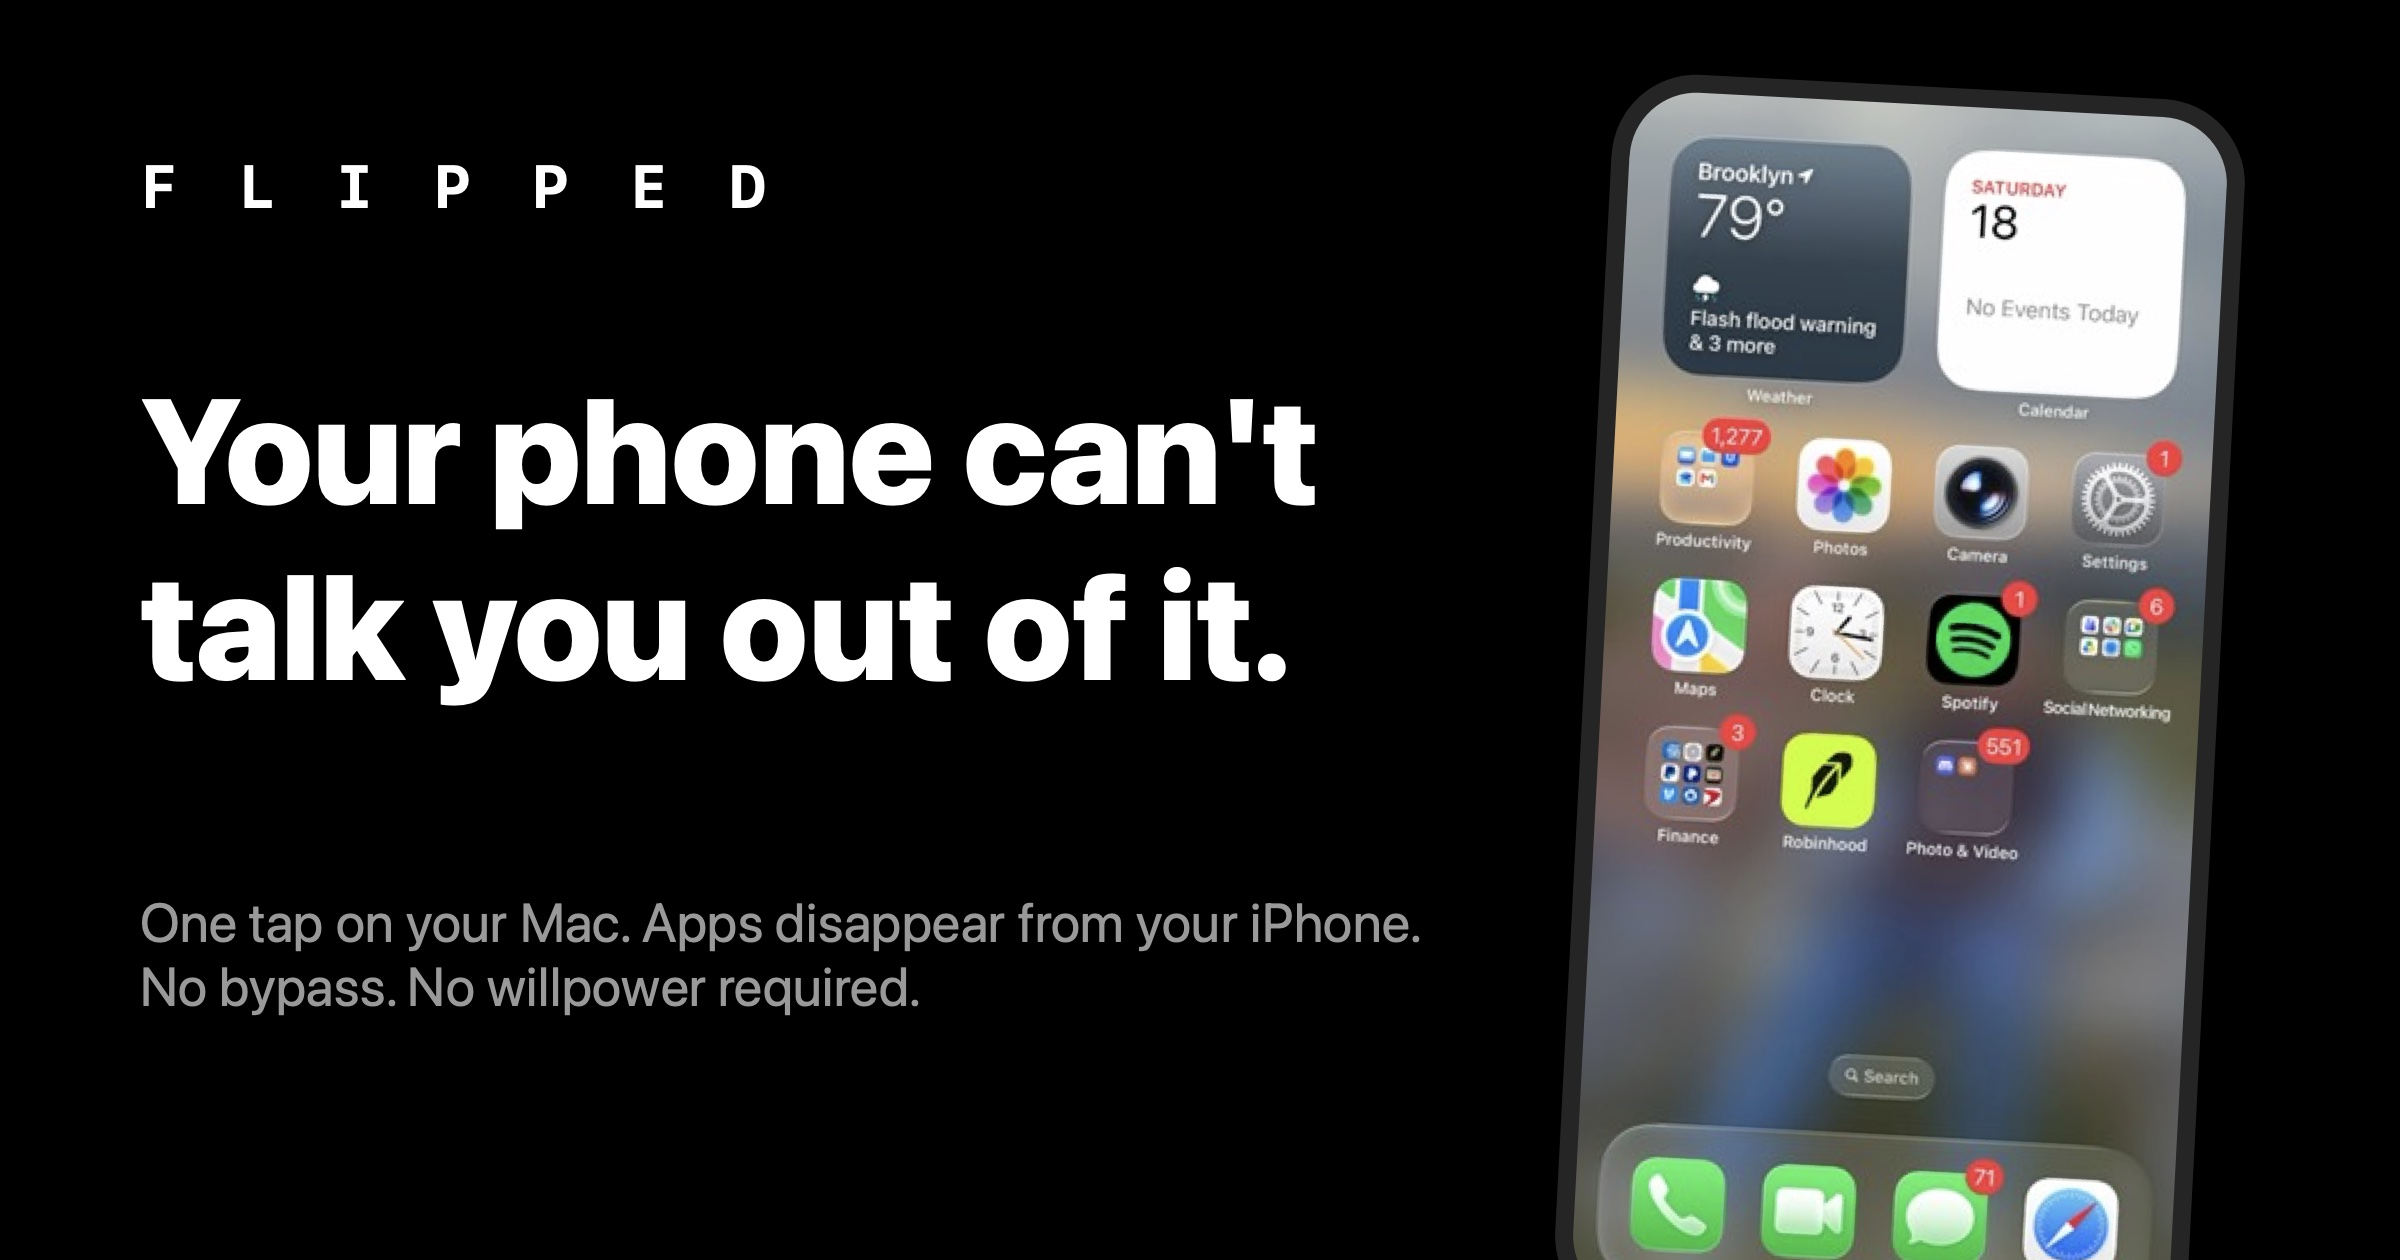
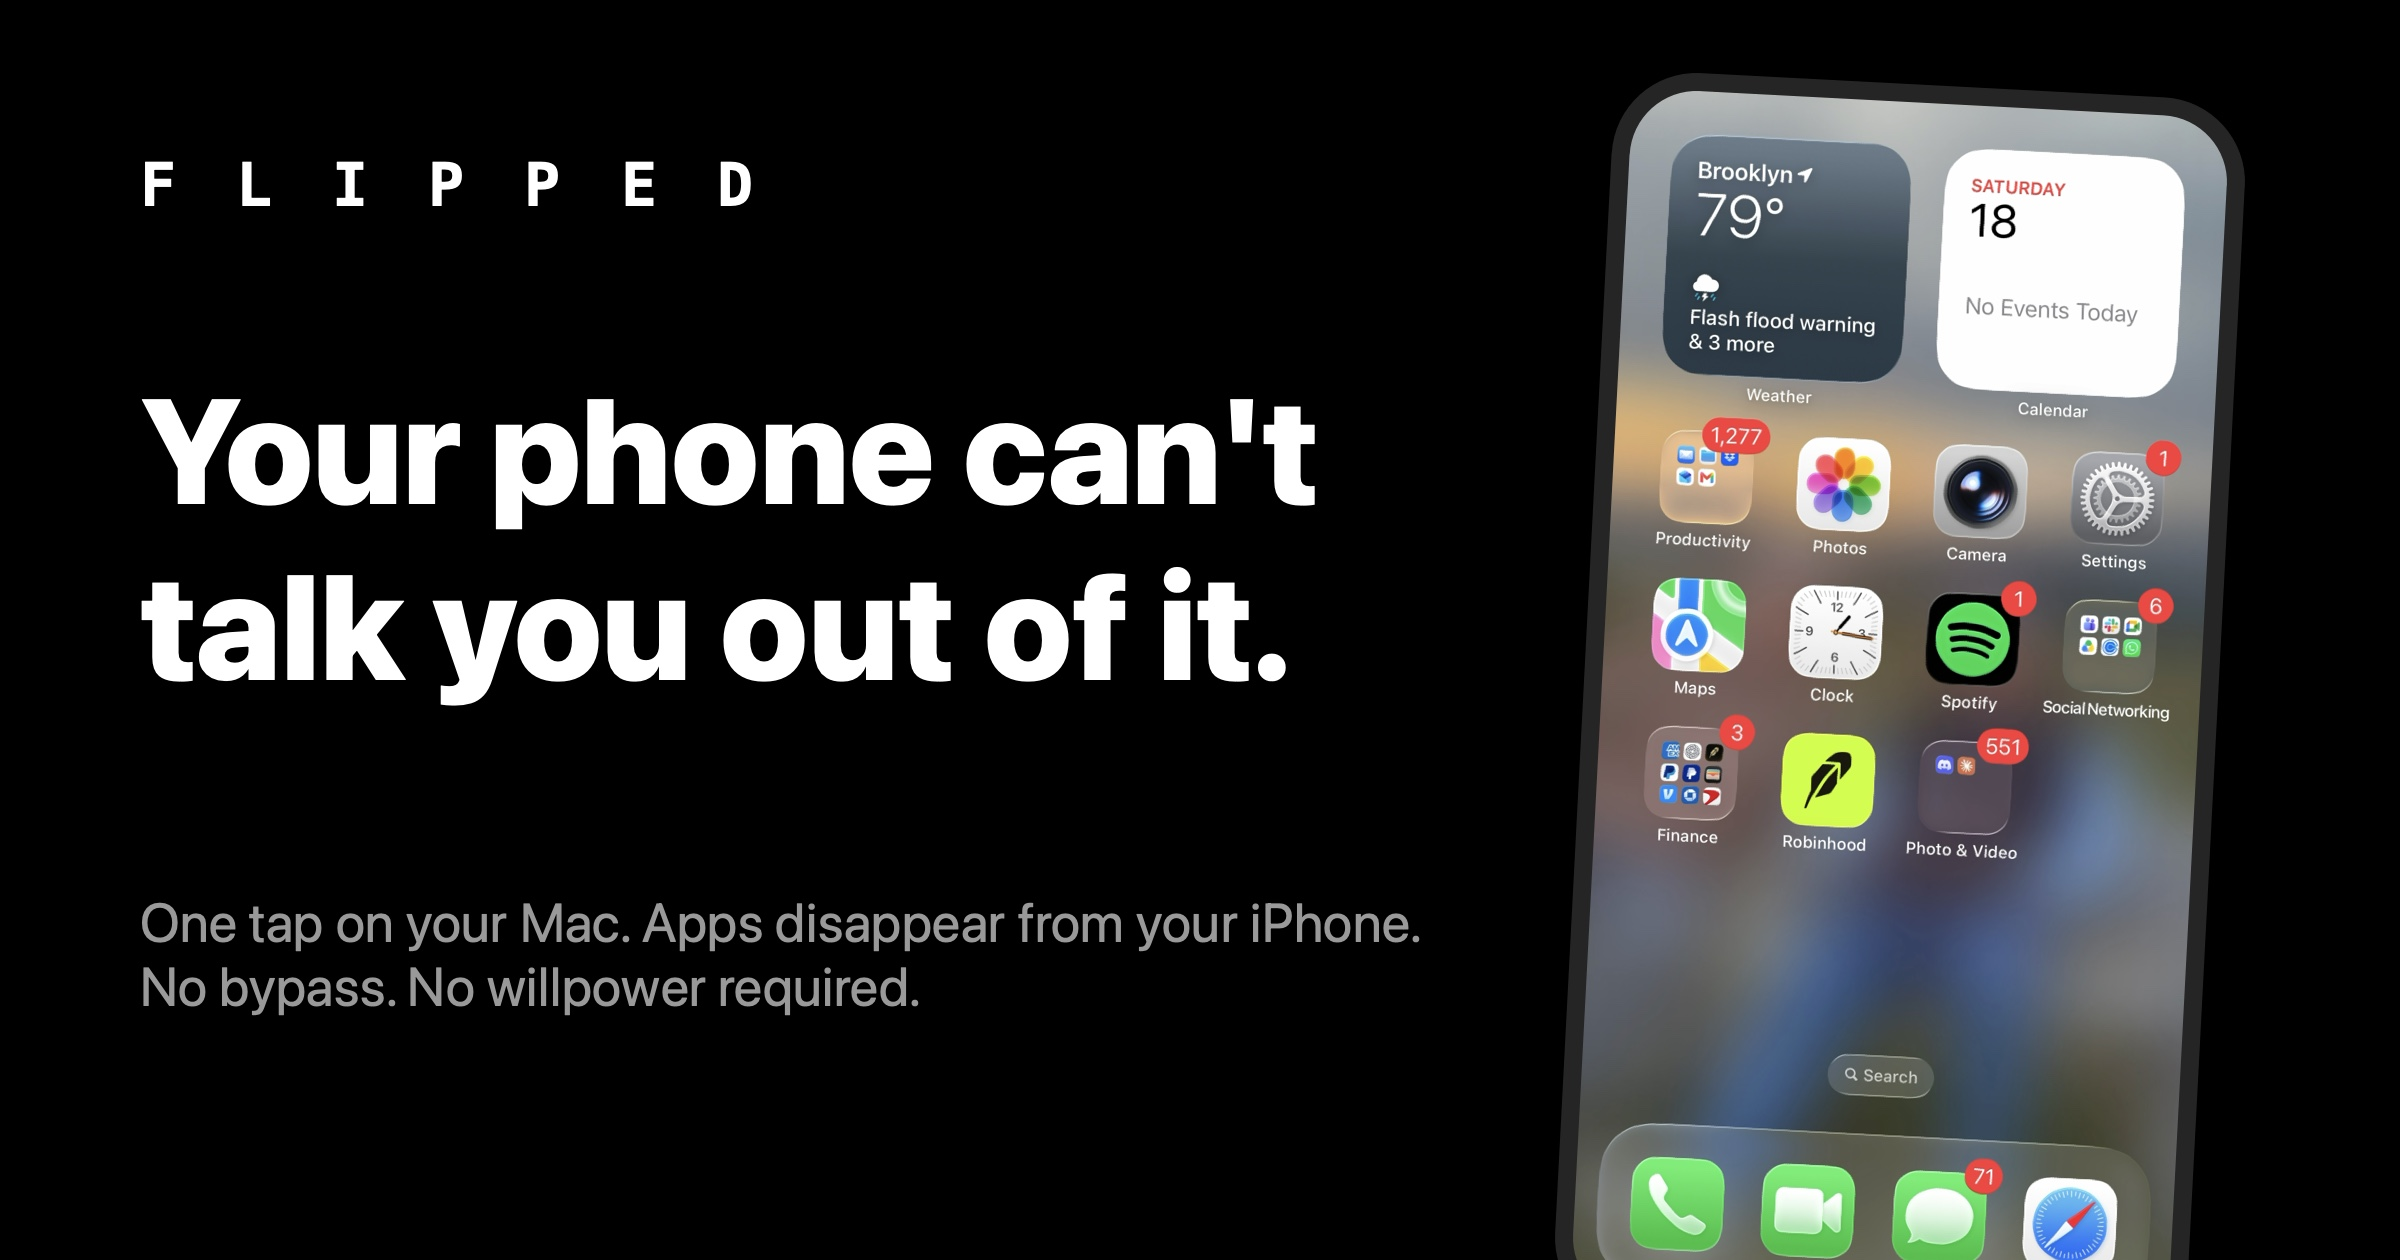
Share card v2: full-res phone still — the blurry iPhone was an 8x upscale
The original card composited a 260px spot-check frame into a 2400px
canvas.  Recomposed from the native-res still (1320x2678, the flipped
state from the real recording); og:image URLs bumped ?v=2 so FB/X
re-scrape instead of serving their cached blur.

diff --git a/index.html b/index.html
@@ -13,13 +13,13 @@
   <meta property="og:url" content="https://useflipped.com/" />
   <meta property="og:title" content="Flipped — Your phone can't talk you out of it." />
   <meta property="og:description" content="One tap on your Mac. Distracting apps disappear from your iPhone until you say so. No bypass. No willpower required." />
-  <meta property="og:image" content="https://useflipped.com/media/og-card.jpg" />
+  <meta property="og:image" content="https://useflipped.com/media/og-card.jpg?v=2" />
   <meta property="og:image:width" content="1200" />
   <meta property="og:image:height" content="630" />
   <meta name="twitter:card" content="summary_large_image" />
   <meta name="twitter:title" content="Flipped — Your phone can't talk you out of it." />
   <meta name="twitter:description" content="One tap on your Mac. Distracting apps disappear from your iPhone until you say so." />
-  <meta name="twitter:image" content="https://useflipped.com/media/og-card.jpg" />
+  <meta name="twitter:image" content="https://useflipped.com/media/og-card.jpg?v=2" />
   <link rel="stylesheet" href="styles.css?v=21" />
   <link rel="stylesheet" href="styles-homepage.css?v=27" />
 </head>
